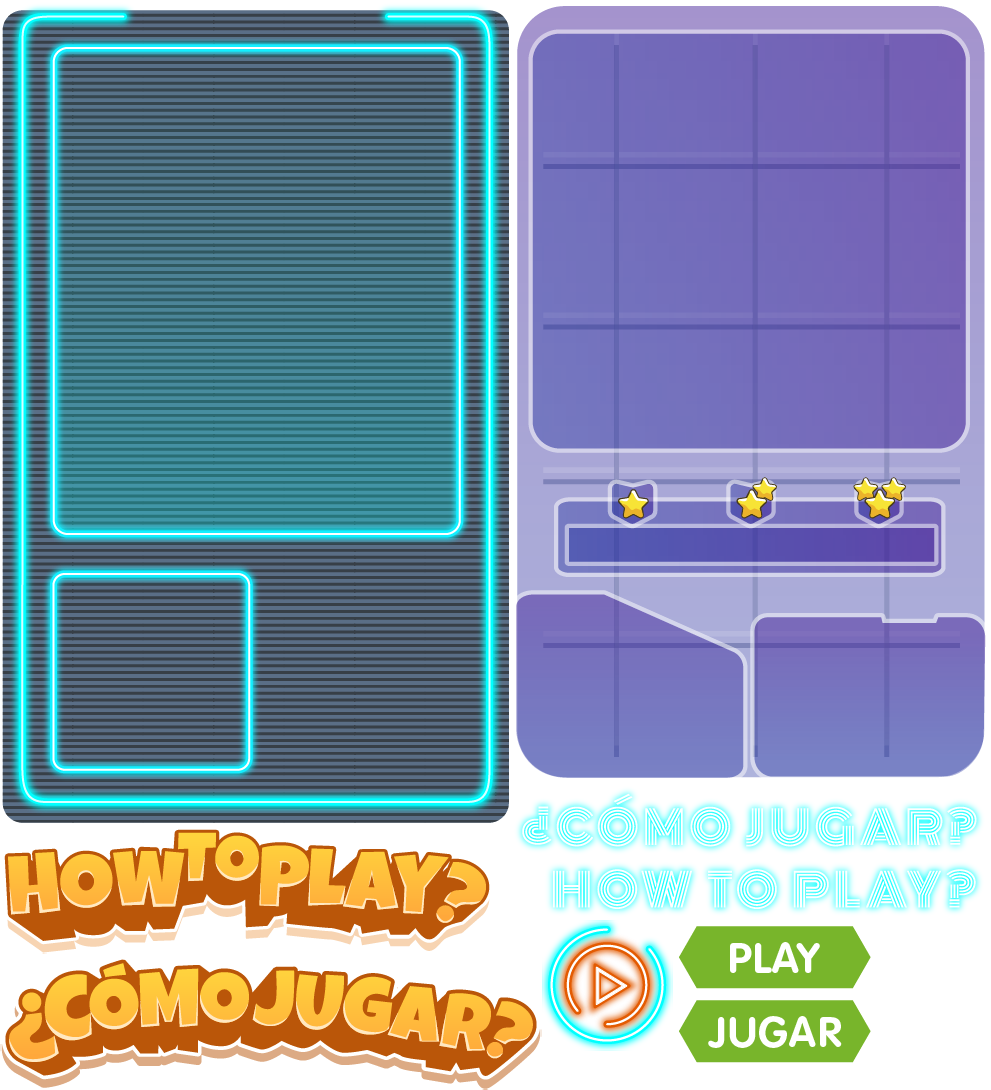
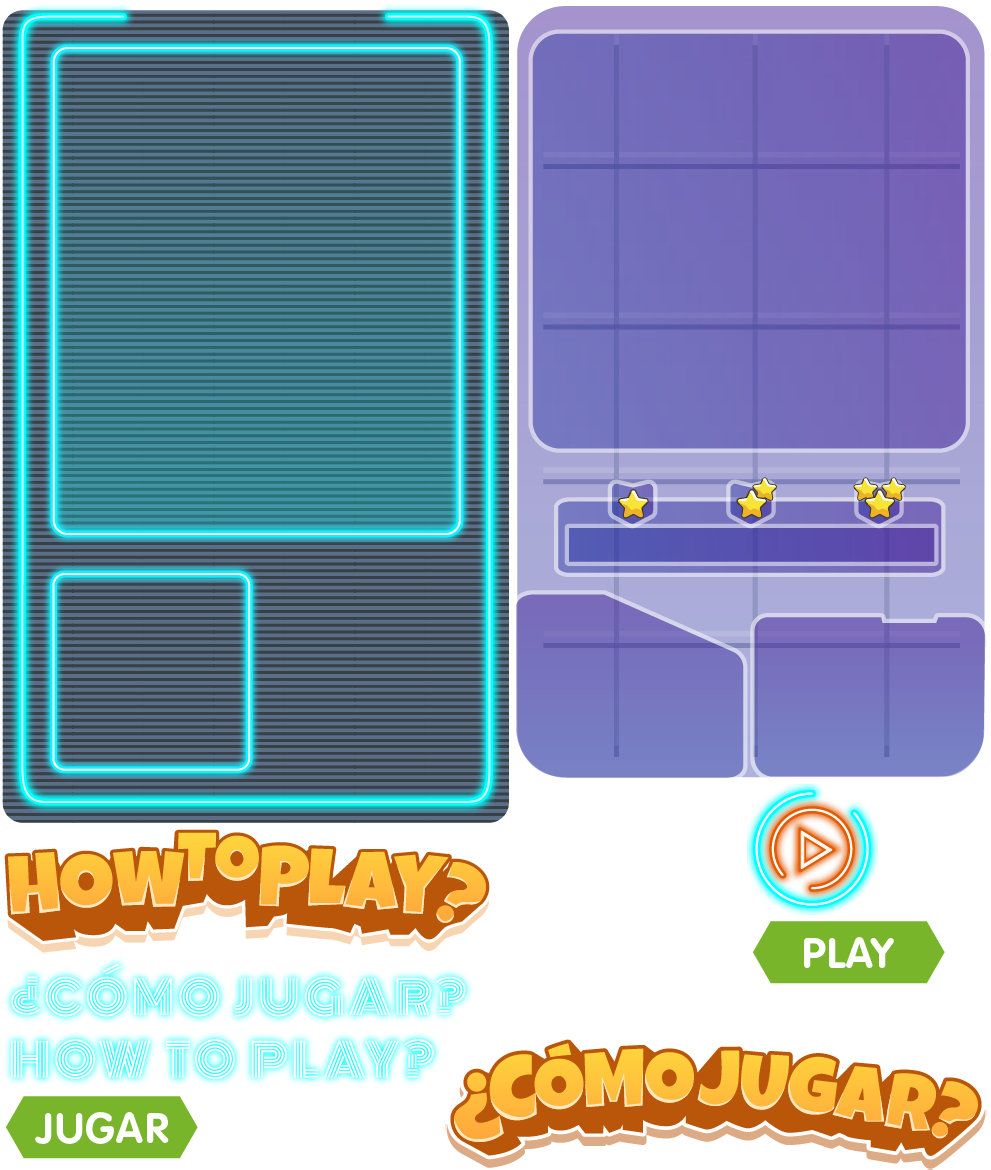
tutorial Imagic Finished

diff --git a/newStructure/shared/minigames/js/helpers/tutorial.js b/newStructure/shared/minigames/js/helpers/tutorial.js
@@ -21,6 +21,7 @@ var tutorialHelper = function () {
 	var playKeyImagic = "button_play"
 	var backKeyImagic = "background_tutorial_Imagic"
 	var backKeyWeb = "background_tutorial_Web"
+	var backKeyStars = "back_stars"
 
 	var spine
 	var spineTimeOut
@@ -33,14 +34,15 @@ var tutorialHelper = function () {
 	function createTutorialGif(group,onClickFunction){
 
 		inTutorial = true
-		var rect = new Phaser.Graphics(game)
-		rect.beginFill(0x000000)
-		rect.drawRect(0,0,game.world.width *2, game.world.height *2)
-		rect.alpha = 0.7
-		rect.endFill()
-		group.add(rect)
+
 
         if(configuration=="withstars"){
+			var rect = new Phaser.Graphics(game)
+			rect.beginFill(0x0d0000)
+			rect.drawRect(0,0,game.world.width *2, game.world.height *2)
+			rect.alpha = 0.7
+			rect.endFill()
+			group.add(rect)
             var plane = group.create(game.world.centerX, game.world.centerY+30,backKeyWeb)
             plane.scale.setTo(1,1)
             plane.anchor.setTo(0.5,0.5)
@@ -53,6 +55,17 @@ var tutorialHelper = function () {
 			var tuto = group.create(game.world.centerX, game.world.centerY - 120,'tutorial_image')
 			tuto.anchor.setTo(0.5,0.5)
         }else if(configuration=="nostars"){
+			var rect = new Phaser.Graphics(game)
+			rect.beginFill(0x0d1623)
+			rect.drawRect(0,0,game.world.width *2, game.world.height *2)
+			rect.alpha = 1
+			rect.endFill()
+			group.add(rect)
+			for(var fillStars=0; fillStars<20; fillStars++){
+				var stars = group.create(game.rnd.integerInRange(0,50)*fillStars,50*fillStars,backKeyStars)
+				stars.scale.setTo(1.2,1.2)
+				stars.anchor.setTo(0.5,0.5)
+			}
             var plane = group.create(game.world.centerX, game.world.centerY+30,backKeyImagic)
             plane.scale.setTo(1,1)
             plane.anchor.setTo(0.5,0.5)
@@ -368,6 +381,7 @@ var tutorialHelper = function () {
 			}
         }else if(configuration=="nostars"){
             currentLoader.image(backKeyImagic,sharePath+"images/tutorial/background_tutorial_Imagic.png");
+			 currentLoader.image(backKeyStars,sharePath+"images/tutorial/back_stars.png");
 			if(language == "ES"){
             currentLoader.image(howkeyWeb,sharePath+'images/tutorial/how_ES_Imagic.png')
             currentLoader.image(playKeyWeb,sharePath+'images/tutorial/play_Imagic.png')
